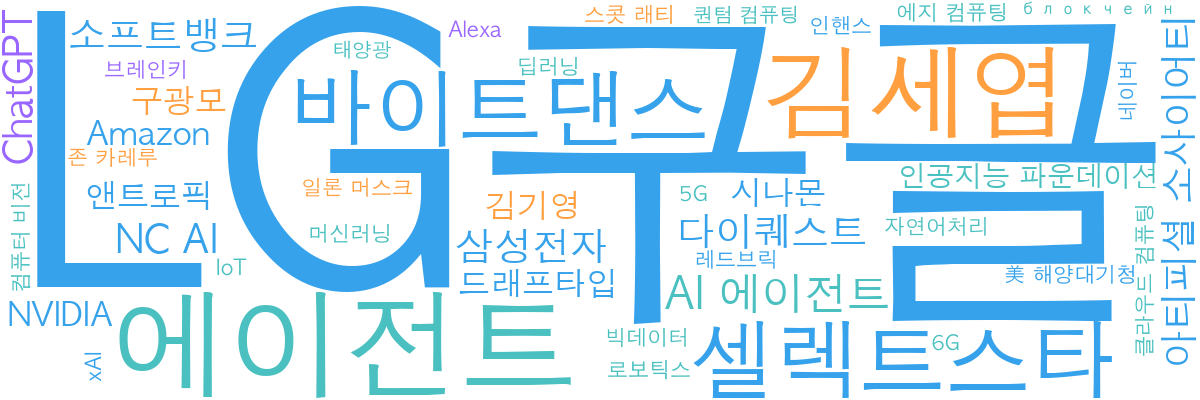
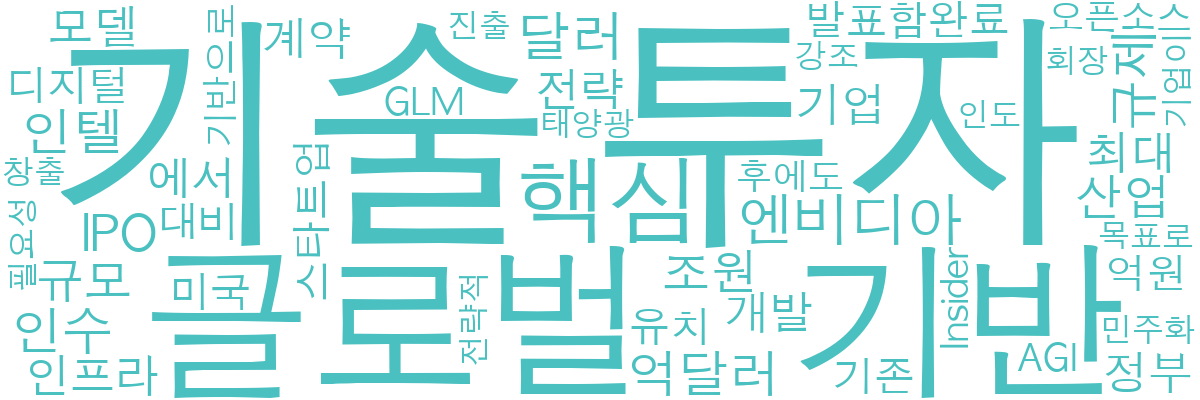
Fix word cloud generation and add Gemini API key load balancing
- Add fallback keyword extraction when LLM quota is exceeded
- Implement round-robin load balancing for multiple Gemini API keys
- Fix word cloud deployment to docs/static directory
- Update word cloud with latest keywords (50 keywords extracted)
- Support multiple API keys via comma-separated GEMINI_API_KEY env var

diff --git a/src/utils/wordcloud_generator.py b/src/utils/wordcloud_generator.py
@@ -148,8 +148,94 @@ Product,ChatGPT,10
             
     # Fallback if LLM fails or returns nothing
     if not word_counts:
-        print("[WordCloud] LLM returned empty or invalid data.")
-        pass
+        print("[WordCloud] LLM returned empty or invalid data. Using fallback keyword extraction...")
+        
+        # Simple fallback: Extract keywords using regex patterns
+        try:
+            # Combine all text
+            full_text = " ".join(collected_text[:150])
+            
+            # Extract Korean words (2+ characters) and English words (3+ characters)
+            korean_words = re.findall(r'[가-힣]{2,}', full_text)
+            english_words = re.findall(r'[A-Z][a-zA-Z]{2,}', full_text)  # Capitalized words
+            
+            all_words = korean_words + english_words
+            word_freq = Counter(all_words)
+            
+            # Extensive exclusion list
+            EXCLUDED_WORDS = {
+                'AI', 'LLM', '인공지능', 'ai', 'llm', 'Ai',
+                # Common Korean particles and words
+                '것', '등', '및', '이', '그', '수', '더', '때', '년', '월', '일', '시', '분',
+                '기', '개', '곳', '명', '원', '위', '대', '중', '내', '외', '가지', '번째',
+                '통해', '위해', '다', '제', '점', '매', '전', '후', '간', '만', '여', '약',
+                '오늘', '내일', '어제', '올해', '금년', '내년', '작년', '모레', '그제',
+                '최근', '현재', '당시', '이번', '다음', '지난', '올', '작', '내', '금',
+                '우리', '저희', '여러', '각','모든', '많은', '적은', '큰', '작은',
+                '있는', '없는', '되는', '하는', '말', '따른', '대한', '관련', '같은',
+                '기사', '뉴스', '소식', '발표', '공개', '출시', '이용', '사용', '서비스',
+                '관계자', '업계', '시장', '분야', '부문', '측', '그동안', '앞으로', '이후',
+                '이상', '이하', '정도', '까지', '부터', '마다', '조', '억', '만',
+                # Common English words
+                'The', 'And', 'For', 'With', 'From', 'That', 'This', 'More', 'New',
+                'All', 'How', 'Why', 'What', 'When', 'Where', 'Who', 'Which',
+                'News', 'Today', 'New', 'About', 'After', 'Before', 'Now', 'Later',
+            }
+            
+            # Known tech companies and important keywords (these should be KEPT)
+            IMPORTANT_KEYWORDS = {
+                'OpenAI', 'Google', 'Microsoft', 'Apple', 'Amazon', 'Meta', 'Tesla',
+                'NVIDIA', 'Samsung', 'LG', 'ChatGPT', 'Gemini', 'Claude', '삼성', '엘지',
+                '네이버', '카카오', '구글', '마이크로소프트', '애플', '아마존', '메타',
+                '엔비디아', '테슬라', '바이트댄스', '알리바바', '텐센트',
+            }
+            
+            # Filter and weight keywords
+            for word, count in word_freq.most_common(100):
+                # Skip single character words
+                if len(word) < 2:
+                    continue
+                
+                # Clean the word
+                word_clean = word.strip()
+                
+                # Check if it's in important keywords (case-insensitive)
+                is_important = any(word_clean.lower() == imp.lower() for imp in IMPORTANT_KEYWORDS)
+                
+                # Skip excluded words (unless it's important)
+                if not is_important:
+                    if word_clean in EXCLUDED_WORDS or word_clean.upper() in EXCLUDED_WORDS:
+                        continue
+                    
+                    # Check base exclusions (AI, LLM, etc.)
+                    should_exclude = False
+                    for excluded in ['LLM', 'AI', '인공지능']:
+                        word_upper = word_clean.upper()
+                        if word_upper == excluded or word_upper.startswith(excluded + 'S'):
+                            should_exclude = True
+                            break
+                    
+                    if should_exclude:
+                        continue
+                
+                # Assign weight based on frequency (cap at 10, boost important keywords)
+                weight = min(count, 10)
+                if is_important:
+                    weight = min(weight + 3, 10)  # Boost important keywords
+                
+                word_counts[word_clean] = weight
+                word_to_category[word_clean] = "Technology"  # Default category
+                
+                # Stop when we have enough keywords
+                if len(word_counts) >= 50:
+                    break
+                    
+            print(f"[WordCloud] Extracted {len(word_counts)} keywords using fallback method")
+                    
+        except Exception as e:
+            print(f"[WordCloud] Fallback extraction failed: {e}")
+            import traceback
+            traceback.print_exc()
 
     return word_counts, word_to_category
 

diff --git a/src/generators/llm.py b/src/generators/llm.py
@@ -32,6 +32,35 @@ BASE_BACKOFF_DELAY = 5.0
 # Last request timestamp for rate limiting
 _last_api_call_time = 0.0
 
+# Gemini API key rotation index
+_gemini_key_index = 0
+_gemini_api_keys = []
+
+def _get_gemini_api_keys():
+    """Parse and return list of Gemini API keys from environment."""
+    global _gemini_api_keys
+    if not _gemini_api_keys:
+        keys_str = os.environ.get("GEMINI_API_KEY", "")
+        if keys_str:
+            # Split by comma and strip whitespace
+            _gemini_api_keys = [k.strip() for k in keys_str.split(",") if k.strip()]
+    return _gemini_api_keys
+
+def _get_next_gemini_key():
+    """Get next Gemini API key in round-robin fashion."""
+    global _gemini_key_index
+    keys = _get_gemini_api_keys()
+    if not keys:
+        raise RuntimeError("GEMINI_API_KEY is not set.")
+    
+    key = keys[_gemini_key_index % len(keys)]
+    _gemini_key_index += 1
+    
+    if len(keys) > 1:
+        print(f"[Gemini] Using API key #{(_gemini_key_index - 1) % len(keys) + 1}/{len(keys)}")
+    
+    return key
+
 def _rate_limit_delay():
     """Enforce minimum delay between API calls."""
     global _last_api_call_time
@@ -136,9 +165,8 @@ def _rank_with_heuristics(items: List[tuple], limit: int) -> List[tuple]:
 
 def _summarize_with_gemini(prompt: str) -> str:
     """Call Gemini API with rate limiting and retry logic."""
-    key = os.environ.get("GEMINI_API_KEY")
-    if not key:
-        raise RuntimeError("GEMINI_API_KEY is not set.")
+    # Get next API key in rotation
+    key = _get_next_gemini_key()
     
     genai.configure(api_key=key)
     model_name = os.getenv("GEMINI_MODEL", "gemini-2.0-flash")

diff --git a/main.py b/main.py
@@ -689,6 +689,13 @@ def main():
             wc_output_path = "static/images/weekly_wordcloud.png"
             os.makedirs(os.path.dirname(wc_output_path), exist_ok=True)
             create_wordcloud_image(wc_counts, wc_categories, wc_output_path)
+            
+            # Also copy to docs/static for deployment
+            docs_output_path = "docs/static/images/weekly_wordcloud.png"
+            os.makedirs(os.path.dirname(docs_output_path), exist_ok=True)
+            import shutil
+            shutil.copy(wc_output_path, docs_output_path)
+            print(f"[WordCloud] Saved to {wc_output_path} and {docs_output_path}")
         except Exception as e:
             print(f"[WordCloud] Failed: {e}")
 
